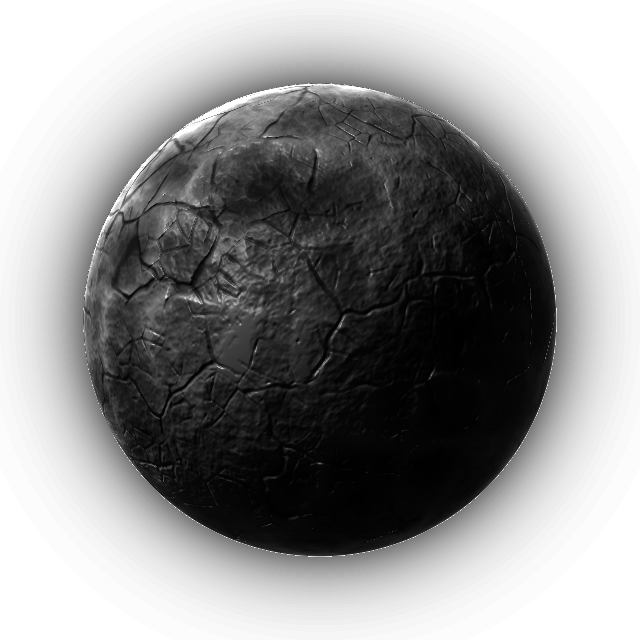
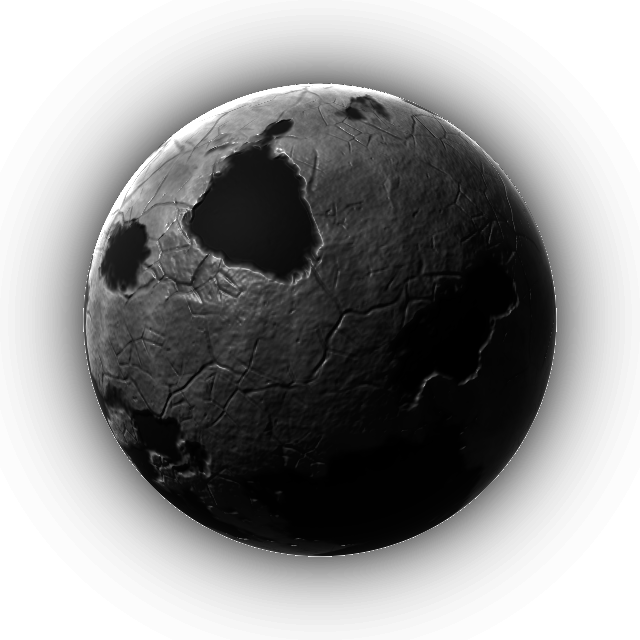
v0.28.1: closer to the reference visuals — a back-lit planet, tighter proportions
Side-by-side pass against the two reference visuals:
- Planet: back-lit like the reference — the face is near black and calm, the crust near the limb catches
  the light in sharp silver glints, coasts and crack lips shine, the limb is ragged and bright. The surface
  now has smooth dark basins and rough cracked "land" with sharp coasts, plus a 4x finer relief layer
  for the lace near the edge; no relief at the poles (where the map pinches); smaller axis tilts
- Header: bigger wordmark, compact weather pill and gear; title in regular weight
- Thinner progress line, smaller glowing thumb; play button 78 pt with prev/next pulled in
- Denser, brighter waveform on the planet; tile names on one line; landscape planet ~65 % of the height
- Station looks: tilt range 0..0.2 (validator and planet)

Claude-Session: https://claude.ai/code/session_01H3qVU92jGBwZSYhN71Ww95

diff --git a/docs/index.html b/docs/index.html
@@ -130,7 +130,7 @@ button,input{font:inherit;color:inherit}button{background:none;border:0;padding:
 .w-text b{font:500 22px/1 var(--sans);letter-spacing:-.01em}
 .w-text small{margin-top:4px;font:400 10px/1 var(--sans);color:var(--soft);max-width:78px;overflow:hidden;text-overflow:ellipsis;white-space:nowrap}
 .icon-btn{display:grid;place-items:center;width:46px;height:46px;border-radius:50%;color:var(--fg);transition:transform .14s var(--ease),background .14s;flex:0 0 auto}
-.icon-btn svg{width:26px;height:26px;display:block}
+.icon-btn svg{width:24px;height:24px;display:block}
 .icon-btn:active{transform:scale(.92);background:var(--wash)}
 .icon-btn.pill{width:56px;height:56px;border-radius:18px;background:var(--pill);border:1px solid rgba(255,255,255,.04)}
 
@@ -146,18 +146,18 @@ button,input{font:inherit;color:inherit}button{background:none;border:0;padding:
 
 /* ---------- Now playing ---------- */
 .np{display:grid;grid-template-columns:minmax(0,1fr);align-items:center;min-width:0}
-.np-title{font:500 clamp(20px,6.6cqw,28px)/1.15 var(--sans);letter-spacing:-.015em;white-space:nowrap;overflow:hidden;text-overflow:ellipsis}
-.np-sub{margin-top:6px;font:400 clamp(15px,4.6cqw,19px)/1.2 var(--sans);color:var(--muted);white-space:nowrap;overflow:hidden;text-overflow:ellipsis}
+.np-title{font:400 clamp(20px,6.6cqw,28px)/1.15 var(--sans);letter-spacing:-.01em;word-spacing:.08em;white-space:nowrap;overflow:hidden;text-overflow:ellipsis}
+.np-sub{margin-top:5px;font:400 clamp(15px,4.6cqw,19px)/1.2 var(--sans);color:var(--muted);white-space:nowrap;overflow:hidden;text-overflow:ellipsis}
 
 /* ---------- Seek bar ---------- */
-.live-rail{position:relative;height:3px;background:var(--rail);overflow:hidden;border-radius:3px}
+.live-rail{position:relative;height:2px;background:var(--rail);overflow:hidden;border-radius:3px}
 .live-fill{position:absolute;inset:0;background:#fff;transform-origin:0 50%;transform:scaleX(0);transition:transform 1s linear}
 .seek{position:relative;height:28px;margin:-12px 0;display:flex;align-items:center;touch-action:none;outline:none;-webkit-user-select:none;user-select:none}
 .seek.can-seek{cursor:pointer}
 .seek .live-rail{flex:1;transition:height .2s var(--ease)}
 .seek-ticks{position:absolute;left:0;right:0;top:50%;height:0;pointer-events:none}
 .seek-ticks i{position:absolute;top:-4px;width:1px;height:8px;background:var(--tick)}
-.seek-thumb{position:absolute;top:50%;left:0;width:15px;height:15px;margin:-7.5px 0 0 -7.5px;border-radius:50%;background:#fff;box-shadow:0 0 0 4px rgba(255,255,255,.08),0 0 14px rgba(255,255,255,.55);opacity:0;transform:scale(.4);transition:left 1s linear,transform .22s var(--ease),opacity .3s;pointer-events:none}
+.seek-thumb{position:absolute;top:50%;left:0;width:13px;height:13px;margin:-6.5px 0 0 -6.5px;border-radius:50%;background:#fff;box-shadow:0 0 10px rgba(255,255,255,.45);opacity:0;transform:scale(.4);transition:left 1s linear,transform .22s var(--ease),opacity .3s;pointer-events:none}
 .seek.can-seek .seek-thumb{opacity:1;transform:scale(1)}
 .seek.dragging .seek-thumb{transform:scale(1.5);transition:transform .22s var(--ease)}
 .seek.dragging .live-rail{height:5px}
@@ -167,21 +167,21 @@ button,input{font:inherit;color:inherit}button{background:none;border:0;padding:
 .seek.dragging .seek-tip{opacity:1}
 .seek-tip b{display:block;font-size:18px;font-weight:500;font-variant-numeric:tabular-nums}
 .seek-tip span{display:block;margin-top:3px;font-size:11px;color:var(--pop-soft);max-width:60vw;overflow:hidden;text-overflow:ellipsis}
-.times{position:relative;z-index:1;display:grid;grid-template-columns:1fr auto 1fr;align-items:center;margin-top:12px;font:400 13px/1 var(--sans);color:var(--muted);font-variant-numeric:tabular-nums}
+.times{position:relative;z-index:1;display:grid;grid-template-columns:1fr auto 1fr;align-items:center;margin-top:11px;font:400 12.5px/1 var(--sans);color:var(--muted);font-variant-numeric:tabular-nums}
 .times span:last-child{text-align:right}
 .golive{visibility:hidden;height:24px;padding:0 12px;border:1px solid rgba(255,255,255,.35);border-radius:12px;font:600 10px/22px var(--sans);letter-spacing:.18em;text-transform:uppercase;color:#fff;transition:transform .14s var(--ease),background .2s}
 .golive:active{transform:scale(.94);background:var(--wash)}
 .shifted .golive{visibility:visible}
 
 /* ---------- Transport ---------- */
-.controls{display:flex;align-items:center;justify-content:space-evenly}
+.controls{display:flex;align-items:center;justify-content:center;gap:clamp(10px,4.6cqw,26px)}
 .ctrl{display:grid;place-items:center;width:64px;height:64px;border-radius:50%;color:#fff;transition:transform .14s var(--ease),background .14s}
 .ctrl:active{transform:scale(.9);background:var(--wash)}
 .ctrl svg{width:30px;height:30px;fill:currentColor}
-.ctrl.big{position:relative;width:96px;height:96px;background:radial-gradient(circle at 50% 35%,rgba(255,255,255,.06),rgba(255,255,255,0) 70%)}
-.ctrl.big svg:not(.arc){width:38px;height:38px;position:relative}
+.ctrl.big{position:relative;width:78px;height:78px;background:radial-gradient(circle at 50% 35%,rgba(255,255,255,.06),rgba(255,255,255,0) 70%)}
+.ctrl.big svg:not(.arc){width:32px;height:32px;position:relative}
 .ctrl.big .arc{position:absolute;inset:0;width:100%;height:100%;transform:rotate(-90deg);overflow:visible;fill:none}
-.arc .arc-bg{stroke:rgba(255,255,255,.2);stroke-width:1.2}
+.arc .arc-bg{stroke:rgba(255,255,255,.22);stroke-width:1.3}
 .arc .arc-fg{stroke:#fff;stroke-width:1.8;stroke-linecap:round;stroke-dasharray:301.6;stroke-dashoffset:calc(301.6 * (1 - var(--p,0)));filter:drop-shadow(0 0 3px rgba(255,255,255,.9)) drop-shadow(0 0 8px rgba(255,255,255,.45));transition:stroke-dashoffset 1s linear;opacity:0}
 .is-on .arc .arc-fg{opacity:1}
 .play-toggle .i-pause{display:none}.play-toggle.is-playing .i-play{display:none}.play-toggle.is-playing .i-pause{display:block}
@@ -197,7 +197,7 @@ button,input{font:inherit;color:inherit}button{background:none;border:0;padding:
 .tile.active .thumb img{opacity:1}
 .tile.active .thumb:after{box-shadow:inset 0 0 0 2px #fff,0 0 18px rgba(255,255,255,.25)}
 .tile.active .thumb{box-shadow:0 0 22px rgba(255,255,255,.14)}
-.tlabel{font:400 clamp(12px,3.6cqw,15px)/1.18 var(--sans);color:var(--soft);text-align:center;max-width:100%;overflow-wrap:break-word}
+.tlabel{font:400 clamp(11.5px,3.4cqw,14px)/1.18 var(--sans);letter-spacing:-.01em;color:var(--soft);text-align:center;white-space:nowrap}
 .tile.active .tlabel{color:#fff}
 .tile.off .thumb img{opacity:.38}
 .tile.off .tlabel:after{content:" · soon";color:var(--dim)}
@@ -208,8 +208,9 @@ button,input{font:inherit;color:inherit}button{background:none;border:0;padding:
 @media(orientation:portrait){.portrait{display:grid}}
 .portrait{grid-template-columns:minmax(0,1fr);grid-template-rows:auto minmax(0,1fr) auto auto auto auto;padding:0 6cqw clamp(12px,2.6cqh,26px)}
 .p-head{display:flex;justify-content:space-between;align-items:flex-start;gap:10px;padding-top:clamp(12px,3cqh,30px)}
-.p-head .brand{font-size:clamp(19px,5.7cqw,30px);padding-top:10px}
-.p-head .weather{height:50px;border-radius:16px;padding:0 13px 0 10px}.p-head .w-icon{width:27px;height:27px}.p-head .w-text b{font-size:19px}
+.p-head .brand{font-size:clamp(21px,6.6cqw,32px);padding-top:10px}
+.p-head .weather{height:44px;border-radius:15px;padding:0 12px 0 10px;gap:7px}.p-head .w-icon{width:23px;height:23px}.p-head .w-text b{font-size:16px}.p-head .w-text small{font-size:8.5px;margin-top:3px}
+.p-head .gear svg{width:23px;height:23px}.p-head .gear{width:42px;height:42px}
 .p-head .tools{gap:6px}
 .p-stage{margin:clamp(4px,1cqh,12px) -6cqw 0}
 .p-np{margin-top:clamp(4px,1cqh,12px)}
@@ -217,7 +218,7 @@ button,input{font:inherit;color:inherit}button{background:none;border:0;padding:
 .p-controls{margin:clamp(14px,2.8cqh,28px) 2cqw 0}
 .p-tiles{margin-top:clamp(16px,3.4cqh,34px)}
 @media(orientation:portrait) and (max-height:700px){
-  .ctrl.big{width:80px;height:80px}.ctrl{width:56px;height:56px}
+  .ctrl.big{width:70px;height:70px}.ctrl{width:56px;height:56px}
   .weather{height:48px;border-radius:15px}.w-text b{font-size:19px}
   .thumb{border-radius:12px}
 }
@@ -227,7 +228,7 @@ button,input{font:inherit;color:inherit}button{background:none;border:0;padding:
 .l-shell{position:absolute;inset:0;container-type:size;display:grid;grid-template-columns:minmax(0,46fr) minmax(0,54fr);grid-template-rows:auto minmax(0,1fr);column-gap:clamp(16px,3cqw,40px);padding:max(10px,env(safe-area-inset-top)) max(22px,env(safe-area-inset-right)) max(12px,env(safe-area-inset-bottom)) max(22px,env(safe-area-inset-left));transform:translate(var(--shift-x),var(--shift-y));transition:transform 2.5s var(--ease)}
 .l-brand{grid-column:1;grid-row:1;font-size:clamp(22px,7.2cqh,38px);padding-top:clamp(4px,2.4cqh,22px)}
 .l-tools{grid-column:2;grid-row:1;justify-self:end;align-self:start;padding-top:clamp(4px,2cqh,18px)}
-.l-stage{grid-column:1;grid-row:1/3;margin:clamp(40px,14cqh,96px) 0 0 0}
+.l-stage{grid-column:1;grid-row:1/3;margin:clamp(24px,7cqh,64px) 0 0 0}
 .l-panel{grid-column:2;grid-row:2;display:flex;flex-direction:column;justify-content:center;min-height:0;container-type:inline-size;padding:1cqh 0 1cqh}
 .l-panel .np{grid-template-columns:minmax(0,1fr)}
 .l-panel .np-title{font-size:clamp(18px,6.8cqh,36px)}
@@ -368,7 +369,7 @@ html.calm *,html.calm *:before,html.calm *:after{animation-duration:.001ms!impor
     <div class="tools"><button class="weather" type="button" data-open="settingsOverlay" data-tab-open="screen" hidden aria-live="polite"><span class="w-icon" aria-hidden="true"></span><span class="w-text"><b data-bind="w-temp">--°</b><small data-bind="w-city"></small></span><span class="sr" data-bind="w-cond"></span></button><button class="icon-btn gear" data-open="settingsOverlay" aria-label="Settings"><svg viewBox="0 0 24 24" fill="none" stroke="currentColor" stroke-width="1.5" stroke-linecap="round" stroke-linejoin="round"><circle cx="12" cy="12" r="3.1"/><path d="M19.4 15a1.65 1.65 0 0 0 .33 1.82l.06.06a2 2 0 1 1-2.83 2.83l-.06-.06a1.65 1.65 0 0 0-1.82-.33 1.65 1.65 0 0 0-1 1.51V21a2 2 0 1 1-4 0v-.09A1.65 1.65 0 0 0 9 19.4a1.65 1.65 0 0 0-1.82.33l-.06.06a2 2 0 1 1-2.83-2.83l.06-.06A1.65 1.65 0 0 0 4.68 15a1.65 1.65 0 0 0-1.51-1H3a2 2 0 1 1 0-4h.09A1.65 1.65 0 0 0 4.6 9a1.65 1.65 0 0 0-.33-1.82l-.06-.06a2 2 0 1 1 2.83-2.83l.06.06A1.65 1.65 0 0 0 9 4.68a1.65 1.65 0 0 0 1-1.51V3a2 2 0 1 1 4 0v.09a1.65 1.65 0 0 0 1 1.51 1.65 1.65 0 0 0 1.82-.33l.06-.06a2 2 0 1 1 2.83 2.83l-.06.06A1.65 1.65 0 0 0 19.4 9a1.65 1.65 0 0 0 1.51 1H21a2 2 0 1 1 0 4h-.09a1.65 1.65 0 0 0-1.51 1z"/></svg></button></div>
   </header>
   <div class="stage p-stage">
-    <div class="planet swipe" data-planet data-scale="1">
+    <div class="planet swipe" data-planet data-scale="1.04">
       <div class="on-planet">
         <div class="op-top" data-bind="onair">ON AIR NOW</div>
         <div class="op-name" data-bind="station" data-swap>BURZH beats</div>
@@ -403,7 +404,7 @@ html.calm *,html.calm *:before,html.calm *:after{animation-duration:.001ms!impor
     <div class="brand l-brand"><div class="wordmark"><b>BURZH</b><span>beats</span></div><div class="tagline">BURZH RADIO · 24/7</div></div>
     <div class="tools l-tools chrome"><button class="weather" type="button" data-open="settingsOverlay" data-tab-open="screen" hidden aria-live="polite"><span class="w-icon" aria-hidden="true"></span><span class="w-text"><b data-bind="w-temp">--°</b><small data-bind="w-city"></small></span><span class="sr" data-bind="w-cond"></span></button><button class="icon-btn gear pill" data-open="settingsOverlay" aria-label="Settings"><svg viewBox="0 0 24 24" fill="none" stroke="currentColor" stroke-width="1.5" stroke-linecap="round" stroke-linejoin="round"><circle cx="12" cy="12" r="3.1"/><path d="M19.4 15a1.65 1.65 0 0 0 .33 1.82l.06.06a2 2 0 1 1-2.83 2.83l-.06-.06a1.65 1.65 0 0 0-1.82-.33 1.65 1.65 0 0 0-1 1.51V21a2 2 0 1 1-4 0v-.09A1.65 1.65 0 0 0 9 19.4a1.65 1.65 0 0 0-1.82.33l-.06.06a2 2 0 1 1-2.83-2.83l.06-.06A1.65 1.65 0 0 0 4.68 15a1.65 1.65 0 0 0-1.51-1H3a2 2 0 1 1 0-4h.09A1.65 1.65 0 0 0 4.6 9a1.65 1.65 0 0 0-.33-1.82l-.06-.06a2 2 0 1 1 2.83-2.83l.06.06A1.65 1.65 0 0 0 9 4.68a1.65 1.65 0 0 0 1-1.51V3a2 2 0 1 1 4 0v.09a1.65 1.65 0 0 0 1 1.51 1.65 1.65 0 0 0 1.82-.33l.06-.06a2 2 0 1 1 2.83 2.83l-.06.06A1.65 1.65 0 0 0 19.4 9a1.65 1.65 0 0 0 1.51 1H21a2 2 0 1 1 0 4h-.09a1.65 1.65 0 0 0-1.51 1z"/></svg></button></div>
     <div class="stage l-stage">
-    <div class="planet swipe" data-planet data-scale="0.86">
+    <div class="planet swipe" data-planet data-scale="1">
       <div class="on-planet">
         <div class="op-top" data-bind="onair">ON AIR NOW</div>
         <div class="op-name" data-bind="station" data-swap>BURZH beats</div>

diff --git a/docs/planet.js b/docs/planet.js
@@ -24,15 +24,15 @@
   // A station's character. Keep LIMITS equal to LOOK_LIMITS in tools/radio.py (a browser check compares them).
   const LOOK = {
     spin: 1,       // rotation speed, 1 = normal (one turn in about four minutes)
-    tilt: 0.14,    // axis tilt towards the viewer (radians; small, so the pole stays out of sight)
+    tilt: 0.06,    // axis tilt towards the viewer (radians; small, so the pole stays out of sight)
     face: 0,       // which side of the planet faces you when you tune in (0..1 of a turn)
     halo: 1,       // rim light and glow
     pulse: 1,      // how much the music moves the light
     orbit: 1       // speed of the light on the orbit ring
   };
-  const LIMITS = { spin: [0.2, 2.5], tilt: [0.05, 0.35], face: [0, 1], halo: [0.5, 2], pulse: [0, 2], orbit: [0.2, 3] };
+  const LIMITS = { spin: [0.2, 2.5], tilt: [0, 0.2], face: [0, 1], halo: [0.5, 2], pulse: [0, 2], orbit: [0.2, 3] };
   const KICK_MS = 650, KICK_GAP_MS = 240;
-  const BUMP = 0.016;          // relief height, in planet radii
+  const BUMP = 0.075;          // relief height, in planet radii
 
   function normaliseLook(raw) {
     const out = {};
@@ -58,7 +58,9 @@ uniform vec3 geo;        // centre x, centre y (pixels, y up), radius (pixels)
 uniform vec4 rot;        // cos/sin tilt, cos/sin spin
 uniform vec4 lite;       // rim, halo, exposure, bump
 uniform vec2 texel;      // 1 / texture size
-const vec3 L = vec3(-0.6080, 0.6853, 0.4643);
+const vec3 L1 = vec3(0.6005, 0.5205, -0.6070);   // behind, upper right
+const vec3 L2 = vec3(-0.8137, 0.2325, -0.5328);  // behind, left
+const vec3 LF = vec3(-0.3015, 0.6030, 0.7385);   // a faint fill from the front
 const float PI = 3.14159265;
 
 vec3 toPlanet(vec3 v){
@@ -98,18 +100,30 @@ void main(){
     vec3 north = cross(q, east);
     float ge = hx / (4.0 * PI * texel.x * cl);            // slope per unit of arc, east and north
     float gn = hy / (2.0 * PI * texel.y);
-    vec3 qb = normalize(q - (east * ge + north * gn) * lite.w);
+    float polar = 1.0 - smoothstep(0.82, 0.97, abs(q.y));   // the map pinches at the poles: no relief there
+    vec3 qb = normalize(q - (east * ge + north * gn) * lite.w * polar);
     vec3 nb = toView(qb);
-    float diff = max(dot(nb, L), 0.0);
-    vec3 H = normalize(L + vec3(0.0, 0.0, 1.0));
-    float spec = pow(max(dot(nb, H), 0.0), 46.0);
-    float albedo = 0.06 + 0.5 * pow(hc, 1.4);
+    // micro relief: the same map, four times finer, for the crisp "lace" near the limb
+    vec2 duv = uv * vec2(4.0, 4.0) + vec2(0.37, 0.11);
+    float hd = mix(0.45, h(duv), polar);
+    float hdx = h(duv + vec2(texel.x, 0.0)) - h(duv - vec2(texel.x, 0.0));
+    float hdy = h(duv - vec2(0.0, texel.y)) - h(duv + vec2(0.0, texel.y));
+    vec3 qd = normalize(qb - (east * hdx / cl + north * hdy) * lite.w * 0.7 * polar / (4.0 * PI * texel.x));
+    vec3 nd = toView(qd);
+    // back light: two lights behind the planet (upper right, left) wrap round the limb; the face stays dark
     float fres = 1.0 - z;
-    float side = clamp(0.3 + 0.75*(d.y*0.75 - d.x*0.35), 0.12, 1.15);
-    float rim = (pow(fres, 8.0)*1.9 + pow(fres, 3.0)*0.42) * side * lite.x;
-    float edgeW = 0.36 + 0.64 * pow(fres, 1.1);              // the face is dark (the name sits there), light skims the limb
-    float c = albedo * (0.03 + 1.45 * pow(diff, 1.5) * edgeW) + rim * (0.35 + 1.1*pow(hc, 1.3))
-            + spec * (0.1 + 1.6*hc*hc) * (0.3 + 0.7*fres) * 0.9;
+    float k1 = max(dot(nd, L1), 0.0), k2 = max(dot(nd, L2), 0.0), kf = max(dot(nd, LF), 0.0);
+    float band = smoothstep(0.1, 0.72, fres);                 // detail shows towards the edge
+    float slope = clamp(length(vec2(ge, gn)) * 0.9 + abs(hdx + hdy) * 40.0, 0.0, 1.0);
+    float crust = smoothstep(0.2, 0.8, k1) * 1.35 + smoothstep(0.2, 0.8, k2) * 1.3;   // crust facing the lights, crisp
+    float glint = (pow(max(dot(nd, normalize(L1 + vec3(0.0, 0.0, 1.0))), 0.0), 60.0) + 0.7 * pow(max(dot(nd, normalize(L2 + vec3(0.0, 0.0, 1.0))), 0.0), 60.0)) * (0.4 + 2.4 * slope);
+    float albedo = 0.018 + 0.05 * hd + 0.03 * hc;
+    float side = clamp(0.62 + 0.5 * dot(normalize(d + 1e-4), normalize(vec2(0.62, 0.45))), 0.45, 1.15);
+    float limb = (pow(fres, 10.0) * 1.3 + pow(fres, 4.0) * 0.22) * side * lite.x * (0.25 + 1.5 * hd * hd);
+    float c = albedo * (0.2 + 0.9 * kf)
+            + band * (crust * (0.1 + 1.25 * hd * hd) * (0.5 + 0.8 * slope) + glint * 2.2) * side
+            + smoothstep(8.0, 34.0, length(vec2(ge, gn)) * polar) * (0.015 + 0.3 * band) * (0.5 + hd) * side   // bright coasts and crack lips
+            + limb;
     c *= lite.z;
     col = vec3(pow(clamp(c, 0.0, 1.0), 1.0/1.1)) * vec3(0.985, 0.99, 1.0);
     alpha = aa;
@@ -202,7 +216,7 @@ void main(){
       H = Math.max(1, Math.round(r.height * dpr));
       for (const c of [glCanvas, fx]) { if (c.width !== W) c.width = W; if (c.height !== H) c.height = H; }
       cx = W / 2; cy = H / 2;
-      R = Math.min(W * 0.34, H * 0.37) * (opts.scale || 1);
+      R = Math.min(W * 0.34 * (opts.scale || 1), H * 0.37);      // the height limit keeps the glow off the top and bottom edges
       if (wave) { const wr = wave.getBoundingClientRect(); wave.width = Math.max(1, Math.round(wr.width * dpr)); wave.height = Math.max(1, Math.round(wr.height * dpr)); }
       frameOnce();
     }
@@ -302,14 +316,14 @@ void main(){
         let v;
         if (haveSpec) {
           const bin = Math.min(spec.length - 1, Math.floor(Math.abs(i - mid) / mid * 40) + 1);
-          v = 0.22 + 0.78 * (spec[bin] / 255);
+          v = 0.35 + 0.65 * (spec[bin] / 255);
         } else {
           const breathe = playing && !isCalm() ? 0.12 * Math.sin(now / 420 + i * 0.7) : 0;
-          v = 0.35 + 0.3 * Math.cos(i * 1.7) * Math.cos(i * 0.6) + breathe;
+          v = 0.62 + 0.3 * Math.cos(i * 1.7) * Math.cos(i * 0.6) + breathe;
         }
-        const hh = Math.max(2, h * (i === mid ? 1 : clamp(v, 0.1, 1) * (1 - dist * 0.35) * 0.72));
-        wctx.fillStyle = 'rgba(255,255,255,' + (i === mid ? 0.95 : 0.55 - dist * 0.25).toFixed(3) + ')';
-        const bw = Math.max(1, dpr * (i === mid ? 1.6 : 1.1));
+        const hh = Math.max(2, h * (i === mid ? 1 : clamp(v, 0.1, 1) * (1 - dist * 0.2) * 0.74));
+        wctx.fillStyle = 'rgba(255,255,255,' + (i === mid ? 0.95 : 0.78 - dist * 0.22).toFixed(3) + ')';
+        const bw = Math.max(1, dpr * (i === mid ? 1.8 : 1.4));
         wctx.fillRect(Math.round(i * gap + gap / 2 - bw / 2), Math.round((h - hh) / 2), bw, Math.round(hh));
       }
     }

diff --git a/docs/app.js b/docs/app.js
@@ -9,7 +9,7 @@
 (() => {
   'use strict';
 
-  const VERSION = '0.28.0';
+  const VERSION = '0.28.1';
   const DATA_URL = './stations.json';
   const KEYS = {
     station: 'burzh.radio.station.v1',

diff --git a/tools/planetgen.py b/tools/planetgen.py
@@ -128,9 +128,12 @@ def surface(width: int = 2048, seed: int = 7) -> np.ndarray:
 
     rough = ridged(p * 3.2 + warp * 4, 6, seed + 90)
     bubbles = np.abs(fbm(p * 14 + warp * 8, 4, seed + 100) - 0.5)
-    h = (0.42 * base + 0.30 * rough + 0.12 * fbm(p * 5 + warp * 3, 5, seed + 80)
-         - 0.16 * big_crack - 0.10 * small_crack - 0.10 * hair
-         + 0.06 * crater + 0.08 * grain - 0.10 * bubbles + 0.03 * fine)
+    # "land": rough, cracked crust with sharp coasts; "sea": smooth dark basins (the face of the planet looks calm)
+    land = smoothstep(0.40, 0.46, base + 0.08 * (fbm(p * 7 + warp * 5, 4, seed + 110) - 0.5))
+    crust = (0.30 * rough + 0.12 * fbm(p * 5 + warp * 3, 5, seed + 80) - 0.16 * big_crack - 0.12 * small_crack
+             - 0.12 * hair + 0.10 * grain - 0.12 * bubbles + 0.04 * fine)
+    basin = 0.06 * fbm(p * 3 + warp, 4, seed + 120) + 0.02 * grain - 0.05 * hair
+    h = 0.30 * land + land * crust + (1 - land) * basin + 0.06 * crater
     h = (h - np.percentile(h, 0.5)) / (np.percentile(h, 99.5) - np.percentile(h, 0.5))
     return np.clip(h, 0, 1).reshape(width // 2, width)
 

diff --git a/tools/radio.py b/tools/radio.py
@@ -45,7 +45,7 @@ GLYPHS = {"grid", "wave", "rings", "tri"}
 
 # A station's planet character ("look"). Same table as LIMITS in docs/planet.js (a browser check keeps them equal).
 LOOK_LIMITS = {
-    "spin": (0.2, 2.5), "tilt": (0.05, 0.35), "face": (0, 1), "halo": (0.5, 2), "pulse": (0, 2), "orbit": (0.2, 3),
+    "spin": (0.2, 2.5), "tilt": (0, 0.2), "face": (0, 1), "halo": (0.5, 2), "pulse": (0, 2), "orbit": (0.2, 3),
 }
 BG_BLACK, BG_PAPER = "#0a0a0a", "#f1f1ee"      # the app background (docs/index.html) and paper (kept for the accent check)
 # GitHub refuses files over 100 MB. A mix whose encoded size would pass MAX_PART_BYTES is cut into equal parts at the
